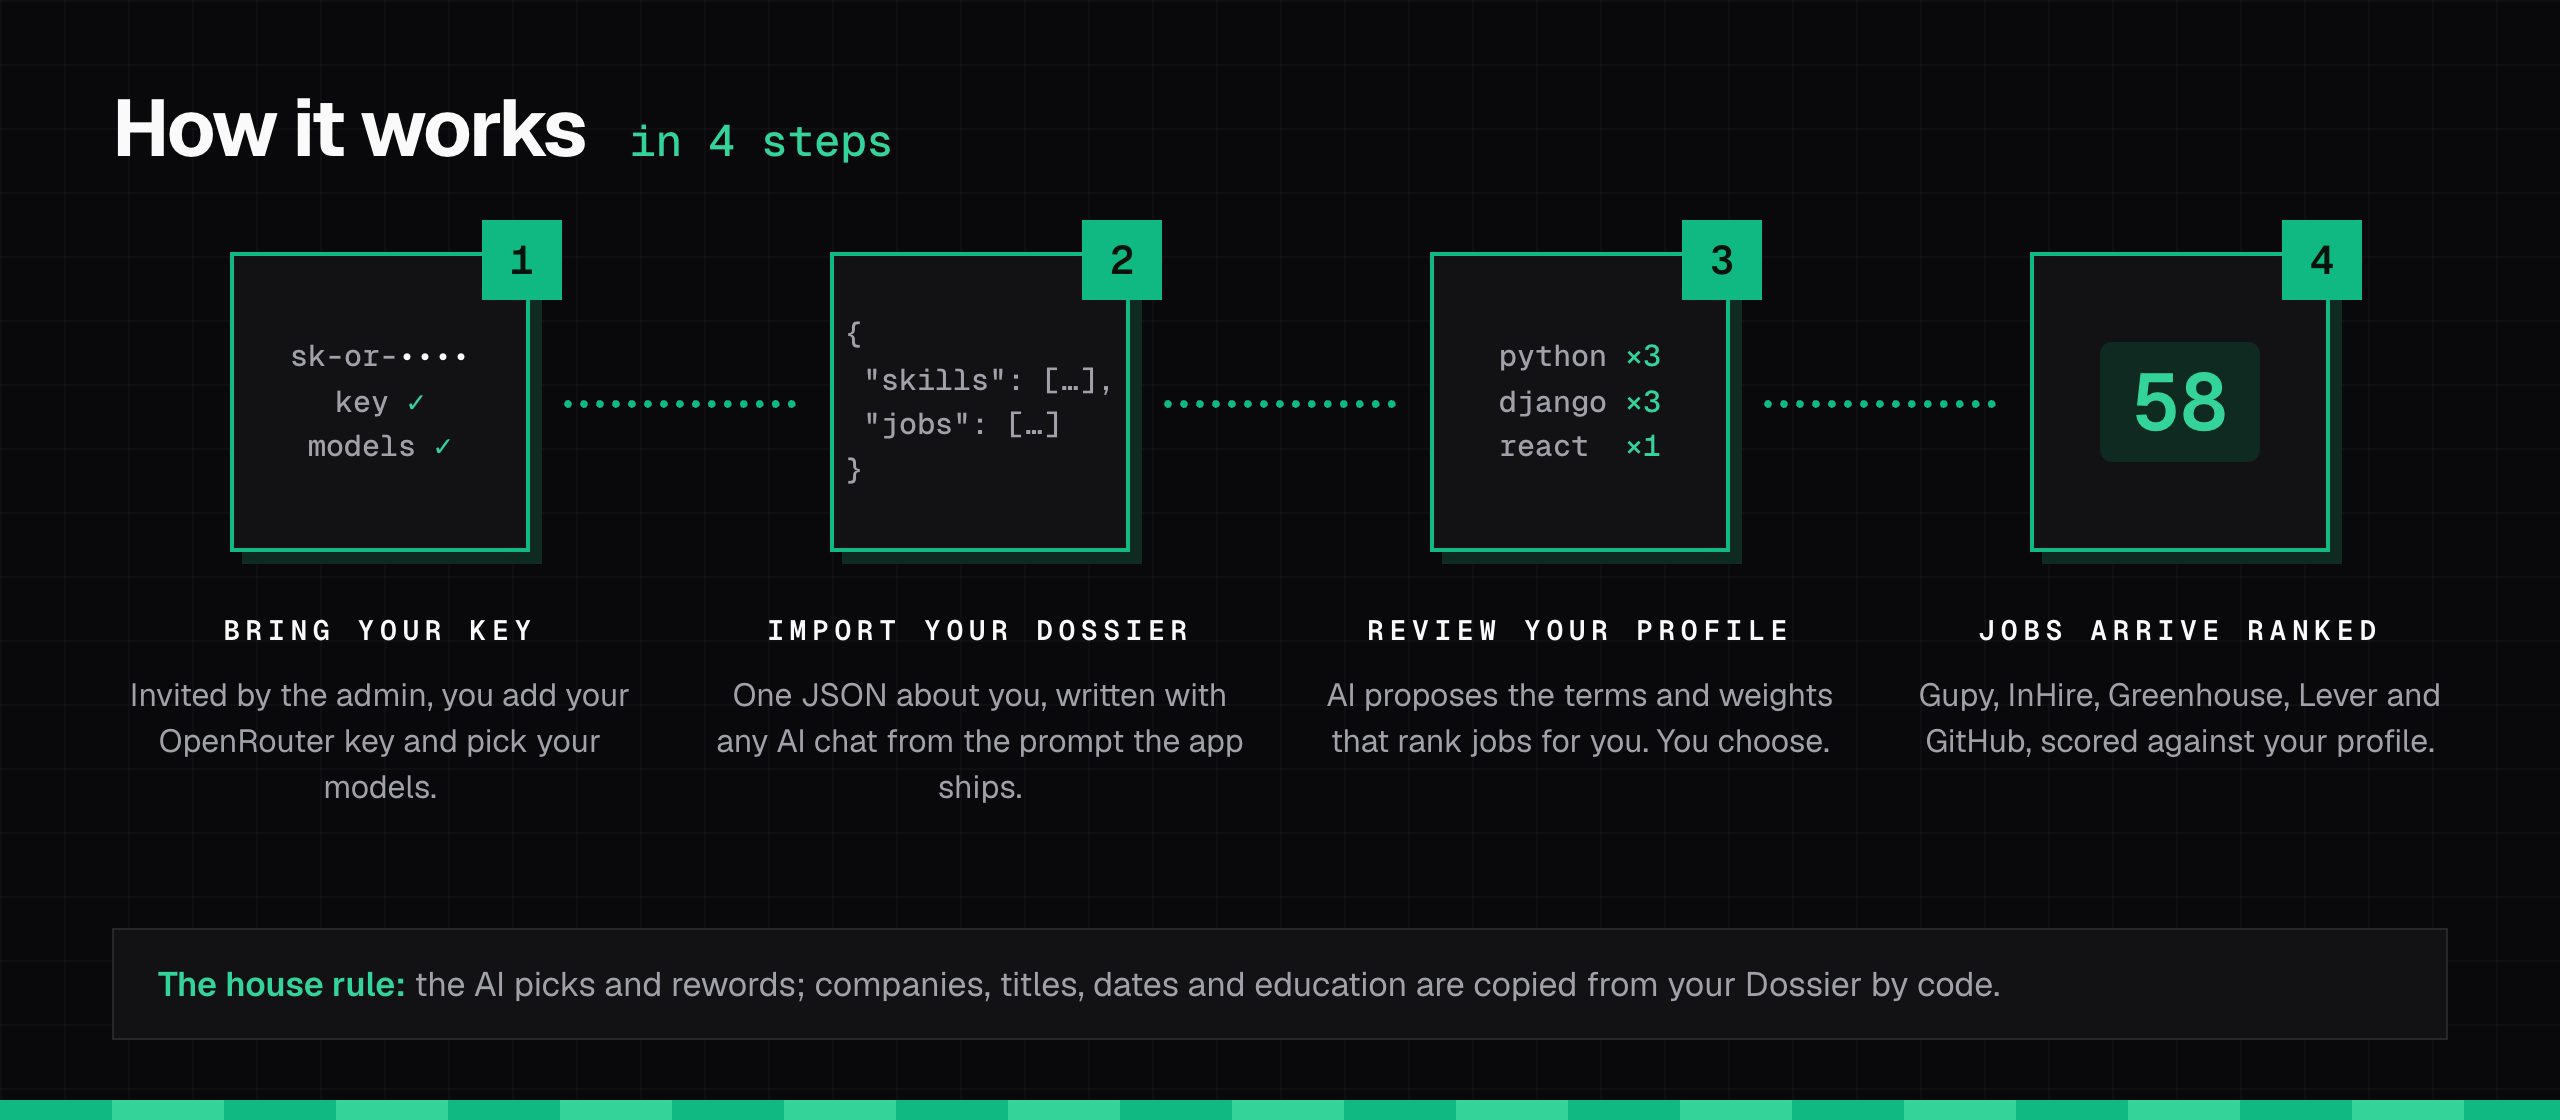
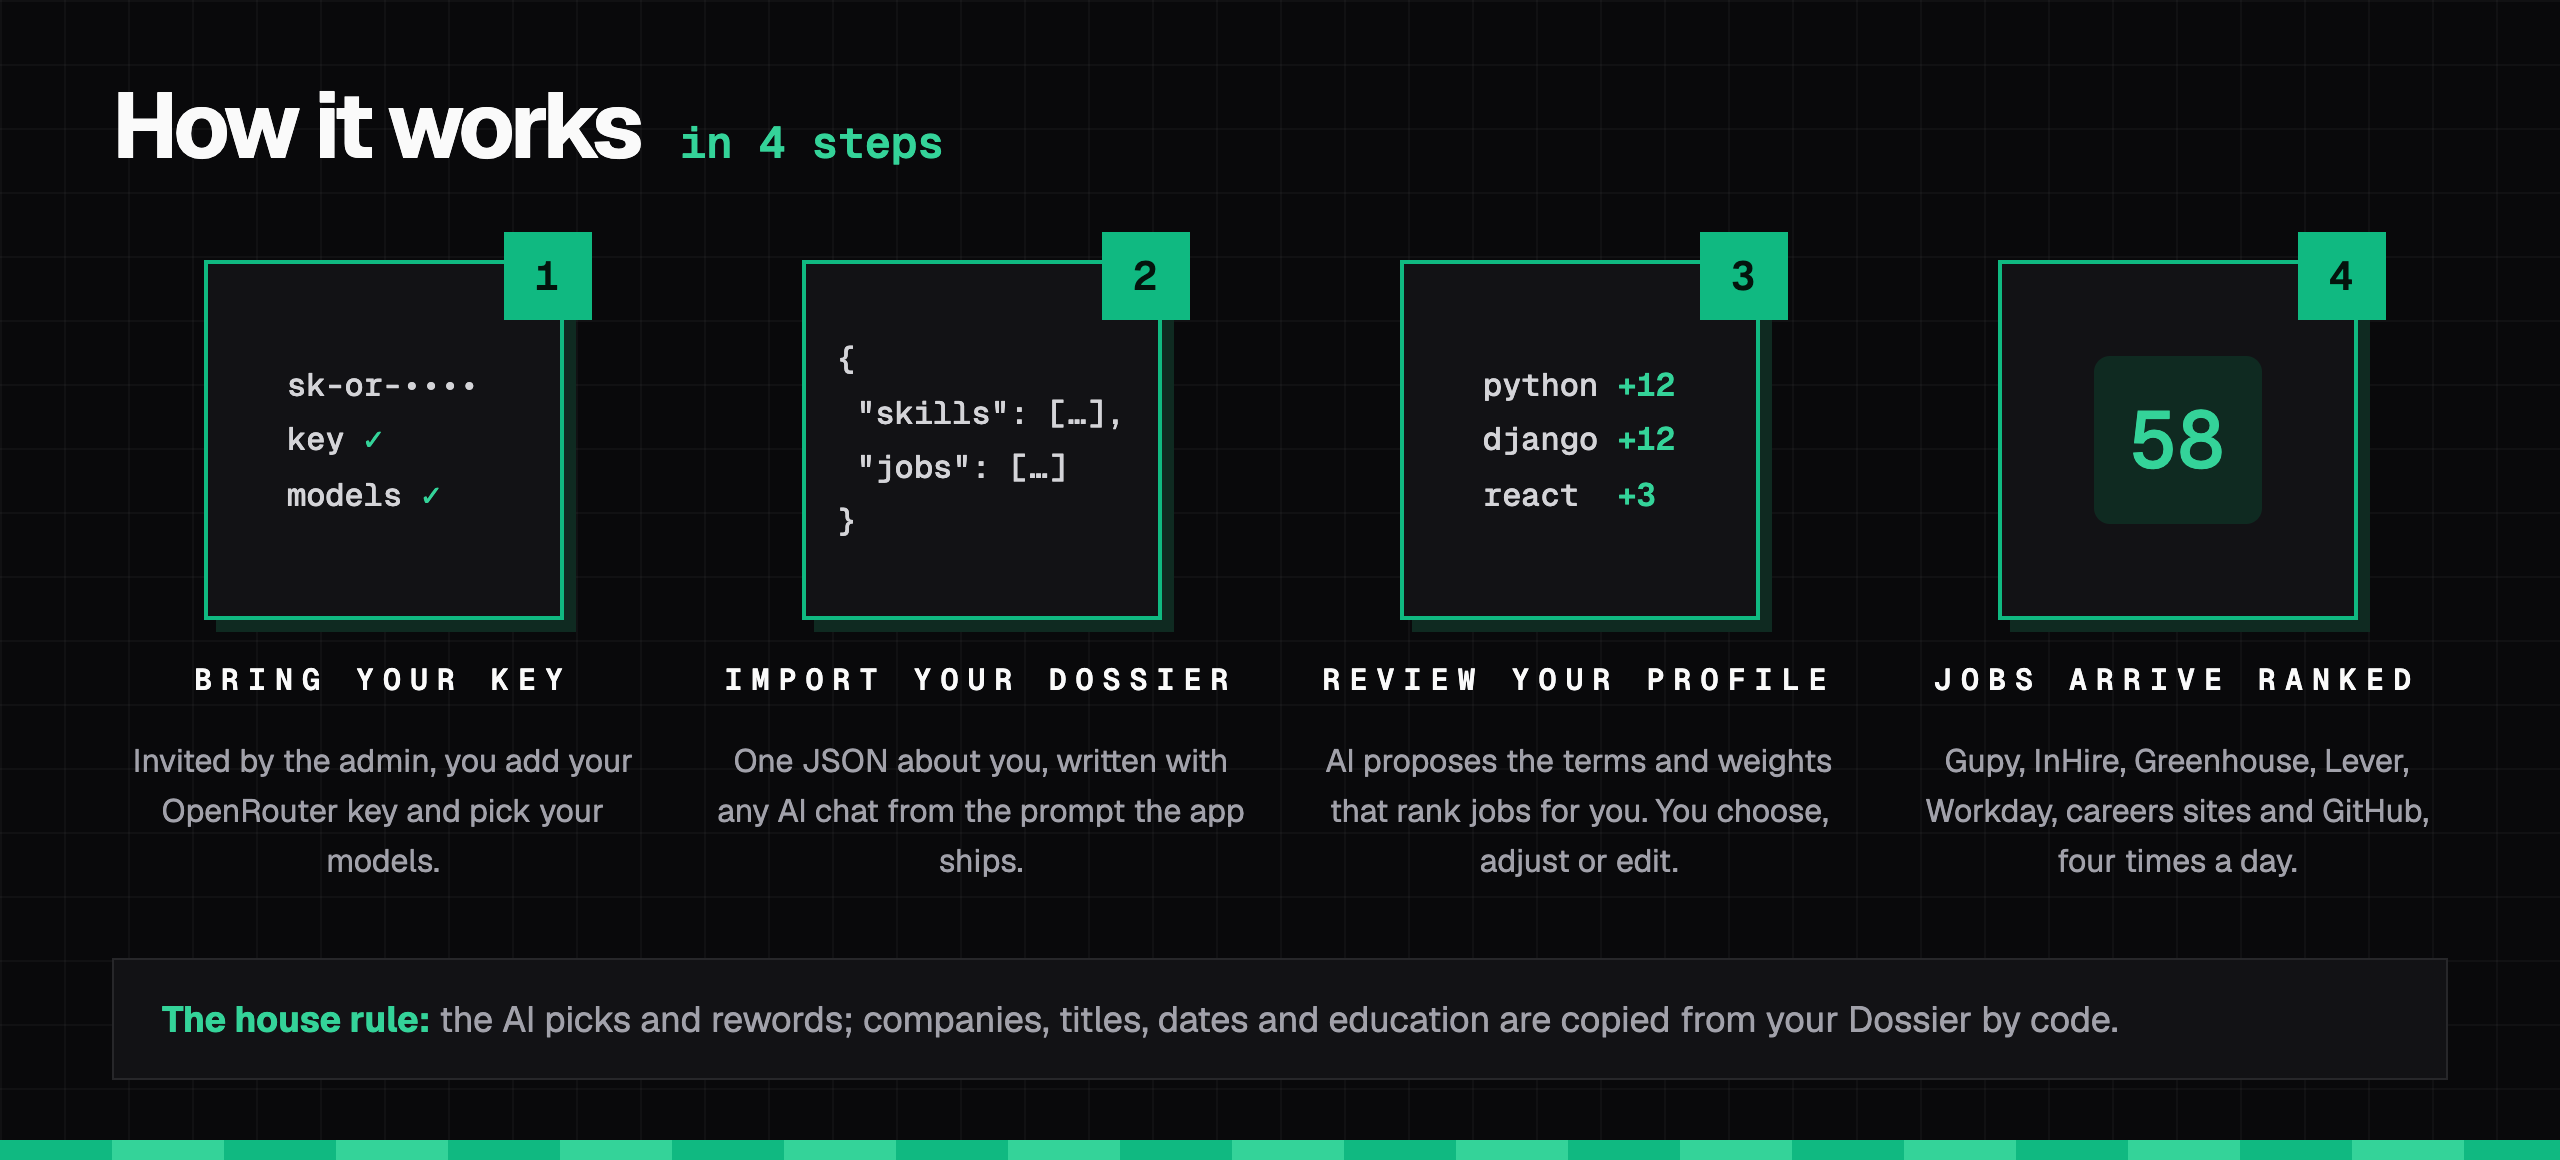
docs(readme): refresh the screenshots and describe the current app

diff --git a/README.md b/README.md
@@ -1,5 +1,5 @@
 <p align="center">
-  <img src=".github/readme/banner.png" alt="Rolehound, invite only: jobs ranked for you, resumes that never invent. Next to it, the jobs screen with postings scored 58, 51, 44 and 39." width="100%">
+  <img src=".github/readme/banner.png" alt="Rolehound, invite only: jobs ranked for you, resumes that never invent. Next to it, the jobs screen with the All, Highlights and Archived tabs and postings scored 44 and 58." width="100%">
 </p>
 
 <p align="center">
@@ -26,7 +26,7 @@ gave it.
 
 ## How it works
 
-<img src=".github/readme/steps.png" alt="How it works in 4 steps: 1, bring your key: invited by the admin, you add your OpenRouter key and pick your models. 2, import your Dossier: one JSON about you, written with any AI chat. 3, review your profile: AI proposes the terms and weights that rank jobs for you, and you choose. 4, jobs arrive ranked from Gupy, InHire, Greenhouse, Lever and GitHub. The house rule: the AI picks and rewords; companies, titles, dates and education are copied from your Dossier by code." width="100%">
+<img src=".github/readme/steps.png" alt="How it works in 4 steps: 1, bring your key: invited by the admin, you add your OpenRouter key and pick your models. 2, import your Dossier: one JSON about you, written with any AI chat. 3, review your profile: AI proposes the terms and weights that rank jobs for you, and you choose, adjust or edit. 4, jobs arrive ranked from Gupy, InHire, Greenhouse, Lever, Workday, careers sites and GitHub, four times a day. The house rule: the AI picks and rewords; companies, titles, dates and education are copied from your Dossier by code." width="100%">
 
 1. **The admin invites you.** There is no public sign-up. You get an email
    with a single use link to set your password.
@@ -38,42 +38,58 @@ gave it.
    you before saving.
 4. **The app builds your score profile.** From the Dossier, AI proposes the
    term groups, weights and search terms that rank jobs for you. You review
-   and choose.
-5. **Jobs arrive ranked.** Collection runs a few times a day and every posting
-   gets your score, with the best ones highlighted.
+   and choose, then adjust it in your own words or edit it by hand.
+5. **Jobs arrive ranked.** Collection runs at 9h, 12h, 15h and 18h (Brazil
+   time) and every posting gets your score, with the best ones highlighted.
 
 ## Features
 
-<img src=".github/readme/showcase.png" alt="Every job, scored for you: the jobs screen with the All, Highlights and Archived tabs, search and filters, and each posting with its score, company, location, work mode, level and source." width="100%">
+<img src=".github/readme/showcase.png" alt="Every job, scored for you: the jobs screen with the sidebar, the All, Highlights and Archived tabs, search and filters, and each posting with its score, company, location, work mode, level and source." width="100%">
 
-- **Collection:** clean connectors for **Gupy, InHire, Greenhouse, Lever** and
-  job repositories on **GitHub**. A posting missing from a source's latest
+- **Collection:** connectors for **Gupy, InHire, Greenhouse, Lever, Workday**
+  and job repositories on **GitHub**, plus any **careers site** that publishes
+  its jobs for search engines (sitemap and schema.org JobPosting, robots.txt
+  obeyed, public addresses only). A posting missing from a source's latest
   snapshot is archived and reopens if it comes back.
+- **Follow companies:** paste a company's careers page, or one of its job
+  links, and it becomes a source. Its jobs show up in your list as soon as
+  the first read ends, and new ones that match you reach you by notification.
 - **Paste a link:** add any posting by its URL. Sources with a connector are
-  fetched through it; for the others you paste the text and the link stays as
-  a reference. The app never scrapes sites it has no connector for.
+  fetched through it; for the others you paste the text, and that job is
+  yours alone. The app never scrapes sites it has no connector for.
 - **Ranking per person:** weighted term groups, title hits count double,
   penalties for stacks you do not want and for experience above your level.
-  Jobs are shared, scores are not.
-- **Application funnel:** applications, interactions and follow ups, with
-  overdue follow ups called out.
+  Jobs are shared, scores are not. Search ignores accents and case.
+<img src=".github/readme/profile.png" alt="No black box, just your terms: the score profile page with each term group, its weight and its terms, and the buttons to adjust it with AI, edit it by hand or generate it again." width="100%">
+
+- **Application funnel:** applications, interactions and follow ups on one
+  board, from interest to offer, with overdue follow ups called out.
+
+<img src=".github/readme/funnel.png" alt="Every application, one board: the funnel with an overdue follow up on top and one card per stage, from interest to offer." width="100%">
+
 - **Pitch:** a "tell us about yourself" text for a posting, written only from
   your Dossier.
 - **ATS analysis:** how your resume PDF reads against a posting.
 - **Tailored resume:** the AI returns JSON, the code renders the PDF.
-  Companies, titles, dates and education must match the Dossier exactly, every
-  skill cited must exist in it, reworded bullets are shown side by side for
-  review, and every cut is reported.
+  Companies, titles, dates and education are copied from the Dossier, a skill
+  the AI cites without it being there is taken out and pointed out, reworded
+  bullets are shown side by side for review, and every cut is reported.
 - **Accuracy:** label a sample of jobs and see how precise your highlights are,
   instead of judging the ranking by feel.
-- **Telegram:** optional bot for new highlights and overdue follow ups.
+- **Notifications and Telegram:** new highlights, companies you follow,
+  overdue follow ups and finished collections, in the app and, optionally,
+  through a Telegram bot you connect with a link or a QR code.
+- **Help center:** a public FAQ at `/ajuda`, reachable from the sign-in
+  screens and from the app.
 
-<img src=".github/readme/review.png" alt="Nothing reworded goes unseen: the tailored resume review, with each rewritten sentence next to the original from the Dossier, the items left out, and the PDF download unlocked after the review." width="100%">
+<img src=".github/readme/review.png" alt="Nothing reworded goes unseen: the tailored resume review, with each rewritten sentence next to the original from the Dossier, a notice that a skill the AI added without it being in the Dossier was taken out, the items left out, and the PDF download unlocked after the review." width="100%">
 
 ## Built to protect the people using it
 
-- **Accounts:** ASP.NET Core Identity with HttpOnly cookies, optional
-  authenticator app 2FA, lockout after 5 failed attempts and rate limits.
+- **Accounts:** ASP.NET Core Identity with HttpOnly, SameSite=Strict cookies,
+  optional 2FA by authenticator app or email code, lockout after 5 failed
+  attempts and rate limits. Changing the password or signing out everywhere
+  voids every pending email link and disconnects Telegram.
 - **Your key stays yours:** OpenRouter keys are encrypted at rest and never
   sent back to the browser. No shared key, no fallback.
 - **Your data:** export everything the app keeps about you as JSON, or delete
@@ -81,9 +97,11 @@ gave it.
   it needs.
 - **Free models, knowingly:** the model picker warns that free models may use
   prompts for training and shows the typical cost of paid ones per use.
-- **Untrusted job text:** job descriptions reach the model inside delimiters,
-  every answer must follow a JSON schema, and the resume check verifies the
-  facts in code instead of trusting the model.
+- **Untrusted job text:** job descriptions reach the model inside delimiters
+  it cannot close, every answer must follow a JSON schema, and the resume
+  check verifies the facts in code instead of trusting the model.
+- **Sites people add are read safely:** only public internet addresses,
+  bounded size and time per page and per source, and robots.txt obeyed.
 
 ## Running locally
 
@@ -129,8 +147,10 @@ it they are skipped.
 
 One Google Cloud e2-micro VM runs the API, PostgreSQL, Caddy (HTTPS), the task
 scheduler and daily backups with Docker Compose. The web app runs on
-Cloudflare Pages. CI builds the API image and pushes it to the GitHub
-Container Registry, so the VM never compiles .NET. Step by step guide in
+Cloudflare Pages, and a Pages Function forwards `/api` to the VM, so no
+custom domain is needed. CI builds the API image and pushes it to the GitHub
+Container Registry, so the VM never compiles .NET; it runs the exact commit
+set in `API_TAG`. Step by step guide in
 [`deploy/README.md`](deploy/README.md).
 
 <details>
@@ -142,7 +162,7 @@ backend/                      .NET 10
   src/Rolehound.Api/          ASP.NET Core host (Minimal APIs)
     Features/                 one folder per module, one subfolder per use case
     Infrastructure/           persistence, HTTP defaults, email, security
-  src/Rolehound.Connectors/   job sources (Greenhouse, Lever, GitHub, InHire, Gupy)
+  src/Rolehound.Connectors/   job sources (Gupy, InHire, Greenhouse, Lever, Workday, GitHub, careers sites)
   src/Rolehound.Scoring/      pure scoring rules, no I/O
   Dockerfile                  production image of the API (built by CI)
   tests/                      one test project per source project
